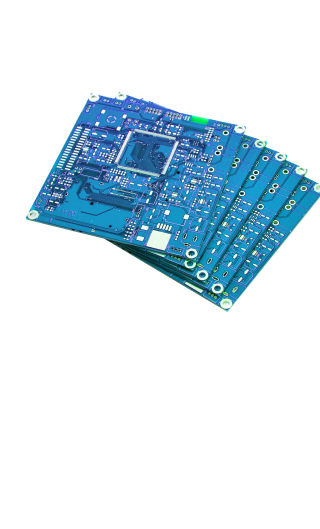
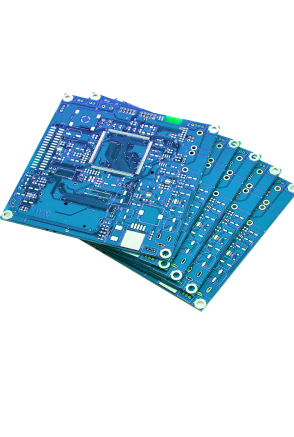
Добавляет сетку в секции promo десктопа

Changed region(s): [[0.0, 0.1785, 1.0, 0.714]]

diff --git a/build/css/style.min.css b/build/css/style.min.css
@@ -1,2 +1,2 @@
-@font-face{font-family:"PT Mono";font-weight:400;font-style:normal;src:url(./../fonts/pt-mono-regular.woff2) format("woff2"),url(./../fonts/pt-mono-regular.woff) format("woff")}@font-face{font-family:"Roboto Condensed";font-weight:400;font-style:normal;src:url(./../fonts/roboto-condensed-regular.woff2) format("woff2"),url(./../fonts/roboto-condensed-regular.woff) format("woff")}@font-face{font-family:"Roboto Condensed";font-weight:700;font-style:normal;src:url(./../fonts/roboto-condensed-bold.woff2) format("woff2"),url(./../fonts/roboto-condensed-bold.woff) format("woff")}body,html{margin:0;padding:0;height:100%;width:100%}html{-webkit-box-sizing:border-box;box-sizing:border-box;scroll-behavior:smooth}body{font-family:"PT Mono","Courier New",monospace;font-size:16px;font-weight:400}*,::after,::before{-webkit-box-sizing:inherit;box-sizing:inherit}.page-header button,h2{font-family:"Roboto Condensed","Courier New",monospace;font-weight:400;font-size:36px;line-height:51px}@media (max-width:1023px){h2{font-size:32px;line-height:140.62%}}@media (max-width:767px){h2{font-size:28px}}img{max-width:100%;height:auto}@media (max-width:767px){.logo-light{display:none}}.logo-mobile{display:none}@media (max-width:767px){.logo-mobile{display:block}}.visually-hidden{position:absolute;width:1px;height:1px;margin:-1px;border:0;padding:0;white-space:nowrap;-webkit-clip-path:inset(100%);clip-path:inset(100%);clip:rect(0 0 0 0);overflow:hidden}.page-header{background-color:#1b2d37}.page-header__container{display:-webkit-box;display:-ms-flexbox;display:flex;-webkit-box-pack:justify;-ms-flex-pack:justify;justify-content:space-between;padding-top:33px;padding-bottom:33px}@media (max-width:1023px){.page-header__container{padding-top:27px;padding-bottom:27px}}@media (max-width:767px){.page-header__container{padding-top:17px;padding-bottom:17px}}.page-header a,img{display:block}.contacts-list,.page-header__contacts{display:-webkit-box;display:-ms-flexbox;display:flex}.page-header button{padding:14px 26px 13px;font-weight:700;font-size:14px;line-height:16px;letter-spacing:.05em;text-transform:uppercase;color:#fff;background-color:inherit;border:1px solid #fff;border-radius:5px}@media (max-width:1023px){.page-header button{display:none}}.contacts-list{-webkit-box-align:center;-ms-flex-align:center;align-items:center;padding:0;margin:0;list-style:none}.contacts-list a{display:block;line-height:18px;color:#fff;text-decoration:none}@media (max-width:1023px){.contacts-list__svg-email{width:25px;height:19px}.contacts-list__svg-phone{width:24px;height:24px}.contacts-list span{display:none}}.container{max-width:1490px;margin-left:auto;margin-right:auto}@media (max-width:1023px){.container{padding-left:25px;padding-right:25px}}@media (max-width:767px){.container{padding-left:15px;padding-right:15px}}.promo{background-color:#1b2d37}.promo__container{padding:194px 0 278px}.promo a,.promo h1{font-weight:700;color:#fff;text-transform:uppercase}.promo h1{margin-top:0;margin-bottom:31px;font-family:"Roboto Condensed","Courier New",monospace;font-size:80px;line-height:94px;letter-spacing:.07em}@media (max-width:1023px){.promo h1{font-size:60px;line-height:70px}}@media (max-width:767px){.promo h1{font-size:40px;line-height:47px}}.promo p{margin-top:0;margin-bottom:37px;font-size:22px;line-height:34px;color:#fff}@media (max-width:1023px){.promo p{font-size:18px;line-height:156.8%}}@media (max-width:767px){.promo p{font-size:16px}}.promo a{display:inline-block;padding:17px 28px 14px;line-height:19px;letter-spacing:.05em;text-decoration:none;background-color:#00b2ff;border-radius:5px}.promo span:nth-child(3n-1){display:none}.advantage ul,.services ul{padding:0;margin:0;list-style:none}.advantage li{background-color:#fff;border:1px solid #ebebeb}.advantage h3{margin:0;font-weight:400;font-size:24px;line-height:34px;color:#00b2ff}@media (max-width:767px){.advantage h3{font-size:20px;line-height:140.62%}}.about-company p,.advantage p{margin:0;line-height:22px;color:#666}.about-company h2{margin:0;color:#666}.about-company a,.advantage h3,.services a,.user-data button{font-family:"Roboto Condensed","Courier New",monospace}.about-company a{display:inline-block;padding:15px 50px 12px;font-weight:700;font-size:14px;line-height:16px;letter-spacing:.05em;text-transform:uppercase;text-decoration:none;border:1px solid #00b2ff;color:#00b2ff}.services{background-color:#1b2d37}.services h2,.user-data h2,.user-data p{margin:0;color:#fff}.services a,.user-data button{color:#fff}.services a{text-decoration:none;font-weight:400;font-size:20px;line-height:30px}.user-data{background-color:#00b2ff}.user-data p{font-weight:400;font-size:16px;line-height:22px}.user-data input,.user-data textarea{padding:0;font-family:"PT Mono","Courier New",monospace;font-size:16px;line-height:22px}.user-data button{padding:14px 79px 13px;font-weight:700;font-size:14px;line-height:16px;letter-spacing:.05em;text-transform:uppercase;background-color:inherit;border:1px solid #fff;border-radius:5px}.user-data__checkbox label{font-size:14px;line-height:16px;color:rgba(255,255,255,.8)}.page-footer{background-color:#fafafa}.our-office a,.sections a,.special-list a{font-size:15px;line-height:25px;color:rgba(27,45,55,.5);text-decoration:none}.our-office ul,.sections ul,.social-list,.special-list{margin:0;padding:0;list-style:none}.special-list a{font-size:13px;line-height:24px;letter-spacing:.04em;text-transform:uppercase}
+@font-face{font-family:"PT Mono";font-weight:400;font-style:normal;src:url(./../fonts/pt-mono-regular.woff2) format("woff2"),url(./../fonts/pt-mono-regular.woff) format("woff")}@font-face{font-family:"Roboto Condensed";font-weight:400;font-style:normal;src:url(./../fonts/roboto-condensed-regular.woff2) format("woff2"),url(./../fonts/roboto-condensed-regular.woff) format("woff")}@font-face{font-family:"Roboto Condensed";font-weight:700;font-style:normal;src:url(./../fonts/roboto-condensed-bold.woff2) format("woff2"),url(./../fonts/roboto-condensed-bold.woff) format("woff")}body,html{margin:0;padding:0;height:100%;width:100%}html{-webkit-box-sizing:border-box;box-sizing:border-box;scroll-behavior:smooth}body{font-family:"PT Mono","Courier New",monospace;font-size:16px;font-weight:400}*,::after,::before{-webkit-box-sizing:inherit;box-sizing:inherit}.page-header button,h2{font-family:"Roboto Condensed","Courier New",monospace;font-weight:400;font-size:36px;line-height:51px}@media (max-width:1023px){h2{font-size:32px;line-height:140.62%}}@media (max-width:767px){h2{font-size:28px}}img{max-width:100%;height:auto}@media (max-width:767px){.logo-light{display:none}}.logo-mobile{display:none}@media (max-width:767px){.logo-mobile{display:block}}.visually-hidden{position:absolute;width:1px;height:1px;margin:-1px;border:0;padding:0;white-space:nowrap;-webkit-clip-path:inset(100%);clip-path:inset(100%);clip:rect(0 0 0 0);overflow:hidden}.page-header{margin-bottom:-122px;background-color:#1b2d37}.page-header__container{display:-webkit-box;display:-ms-flexbox;display:flex;-webkit-box-pack:justify;-ms-flex-pack:justify;justify-content:space-between;padding-top:33px;padding-bottom:33px}@media (max-width:1023px){.page-header__container{padding-top:27px;padding-bottom:27px}}@media (max-width:767px){.page-header__container{padding-top:17px;padding-bottom:17px}}.page-header a,img{display:block}.contacts-list,.page-header__contacts{display:-webkit-box;display:-ms-flexbox;display:flex}.page-header button{padding:14px 26px 13px;font-weight:700;font-size:14px;line-height:16px;letter-spacing:.05em;text-transform:uppercase;color:#fff;background-color:inherit;border:1px solid #fff;border-radius:5px}@media (max-width:1023px){.page-header button{display:none}}.contacts-list{-webkit-box-align:center;-ms-flex-align:center;align-items:center;padding:0;margin:0;list-style:none}.contacts-list a{display:block;line-height:18px;color:#fff;text-decoration:none}@media (max-width:1023px){.contacts-list__svg-email{width:25px;height:19px}.contacts-list__svg-phone{width:24px;height:24px}.contacts-list span{display:none}}.container{max-width:1410px;margin-left:auto;margin-right:auto}@media (max-width:1023px){.container{padding-left:25px;padding-right:25px}}@media (max-width:767px){.container{padding-left:15px;padding-right:15px}}.promo{background-color:#1b2d37;background-image:url(../img/main-background.png);background-position:center;background-repeat:no-repeat;background-size:cover}.promo__container{position:relative;padding:316px 0 275px}.promo a,.promo h1{font-weight:700;color:#fff;text-transform:uppercase}.promo h1{margin-top:0;margin-bottom:31px;font-family:"Roboto Condensed","Courier New",monospace;font-size:80px;line-height:94px;letter-spacing:.07em}@media (max-width:1023px){.promo h1{font-size:60px;line-height:70px}}@media (max-width:767px){.promo h1{font-size:40px;line-height:47px}}.promo p{width:777px;padding-left:94px;margin-top:0;margin-bottom:37px;font-size:22px;line-height:34px;color:#fff}@media (max-width:1023px){.promo p{font-size:18px;line-height:156.8%}}@media (max-width:767px){.promo p{font-size:16px}}.promo a{display:inline-block;padding:17px 28px 14px;line-height:19px;letter-spacing:.05em;text-decoration:none;background-color:#00b2ff;border-radius:5px}.promo span:nth-child(3n-1){display:none}.promo__picture{position:absolute;right:-80px;top:15px}.advantage ul,.services ul{padding:0;margin:0;list-style:none}.advantage li{background-color:#fff;border:1px solid #ebebeb}.advantage h3{margin:0;font-weight:400;font-size:24px;line-height:34px;color:#00b2ff}@media (max-width:767px){.advantage h3{font-size:20px;line-height:140.62%}}.about-company p,.advantage p{margin:0;line-height:22px;color:#666}.about-company h2{margin:0;color:#666}.about-company a,.advantage h3,.services a,.user-data button{font-family:"Roboto Condensed","Courier New",monospace}.about-company a{display:inline-block;padding:15px 50px 12px;font-weight:700;font-size:14px;line-height:16px;letter-spacing:.05em;text-transform:uppercase;text-decoration:none;border:1px solid #00b2ff;color:#00b2ff}.services{background-color:#1b2d37}.services h2,.user-data h2,.user-data p{margin:0;color:#fff}.services a,.user-data button{color:#fff}.services a{text-decoration:none;font-weight:400;font-size:20px;line-height:30px}.user-data{background-color:#00b2ff}.user-data p{font-weight:400;font-size:16px;line-height:22px}.user-data input,.user-data textarea{padding:0;font-family:"PT Mono","Courier New",monospace;font-size:16px;line-height:22px}.user-data button{padding:14px 79px 13px;font-weight:700;font-size:14px;line-height:16px;letter-spacing:.05em;text-transform:uppercase;background-color:inherit;border:1px solid #fff;border-radius:5px}.user-data__checkbox label{font-size:14px;line-height:16px;color:rgba(255,255,255,.8)}.page-footer{background-color:#fafafa}.our-office a,.sections a,.special-list a{font-size:15px;line-height:25px;color:rgba(27,45,55,.5);text-decoration:none}.our-office ul,.sections ul,.social-list,.special-list{margin:0;padding:0;list-style:none}.special-list a{font-size:13px;line-height:24px;letter-spacing:.04em;text-transform:uppercase}
 /*# sourceMappingURL=style.min.css.map */

diff --git a/build/index.html b/build/index.html
@@ -50,6 +50,13 @@
             <span>Получить бесплатную консультацию</span>
             <span>Бесплатная консультация</span>
           </a>
+          <div class="promo__picture">
+            <picture>
+              <source media="(max-width: 767px)" srcset="./img/chip-mobile.png">
+              <source media="(max-width: 1023px)" srcset="./img/chip-tablet.png">
+              <img src="./img/chip.png" width="713" height="655" alt="Фотография печатной платы">
+            </picture>
+          </div>
         </div>
       </section>
       <section class="advantage container">

diff --git a/source/index.html b/source/index.html
@@ -50,6 +50,13 @@
             <span>Получить бесплатную консультацию</span>
             <span>Бесплатная консультация</span>
           </a>
+          <div class="promo__picture">
+            <picture>
+              <source media="(max-width: 767px)" srcset="./img/chip-mobile.png">
+              <source media="(max-width: 1023px)" srcset="./img/chip-tablet.png">
+              <img src="./img/chip.png" width="713" height="655" alt="Фотография печатной платы">
+            </picture>
+          </div>
         </div>
       </section>
       <section class="advantage container">

diff --git a/source/sass/blocks/promo.scss b/source/sass/blocks/promo.scss
@@ -1,9 +1,14 @@
 .promo {
   background-color: $additional-dark;
+  background-image: url("../img/main-background.png");
+  background-position: center;
+  background-repeat: no-repeat;
+  background-size: cover;
 }
 
 .promo__container {
-  padding: 194px 0 278px;
+  position: relative;
+  padding: 316px 0 275px;
 }
 
 .promo h1 {
@@ -29,6 +34,8 @@
 }
 
 .promo p {
+  width: 777px;
+  padding-left: 94px;
   margin-top: 0;
   margin-bottom: 37px;
   font-size: 22px;
@@ -60,4 +67,10 @@
 
 .promo span:nth-child(3n-1) {
   display: none;
+}
+
+.promo__picture {
+  position: absolute;
+  right: -80px;
+  top: 15px;
 }

diff --git a/source/sass/blocks/container.scss b/source/sass/blocks/container.scss
@@ -1,5 +1,5 @@
 .container {
-  max-width: 1490px;
+  max-width: 1410px;
   margin-left: auto;
   margin-right: auto;
 

diff --git a/source/sass/blocks/page-header.scss b/source/sass/blocks/page-header.scss
@@ -1,4 +1,5 @@
 .page-header {
+  margin-bottom: -122px;
   background-color: $additional-dark;
 }
 
